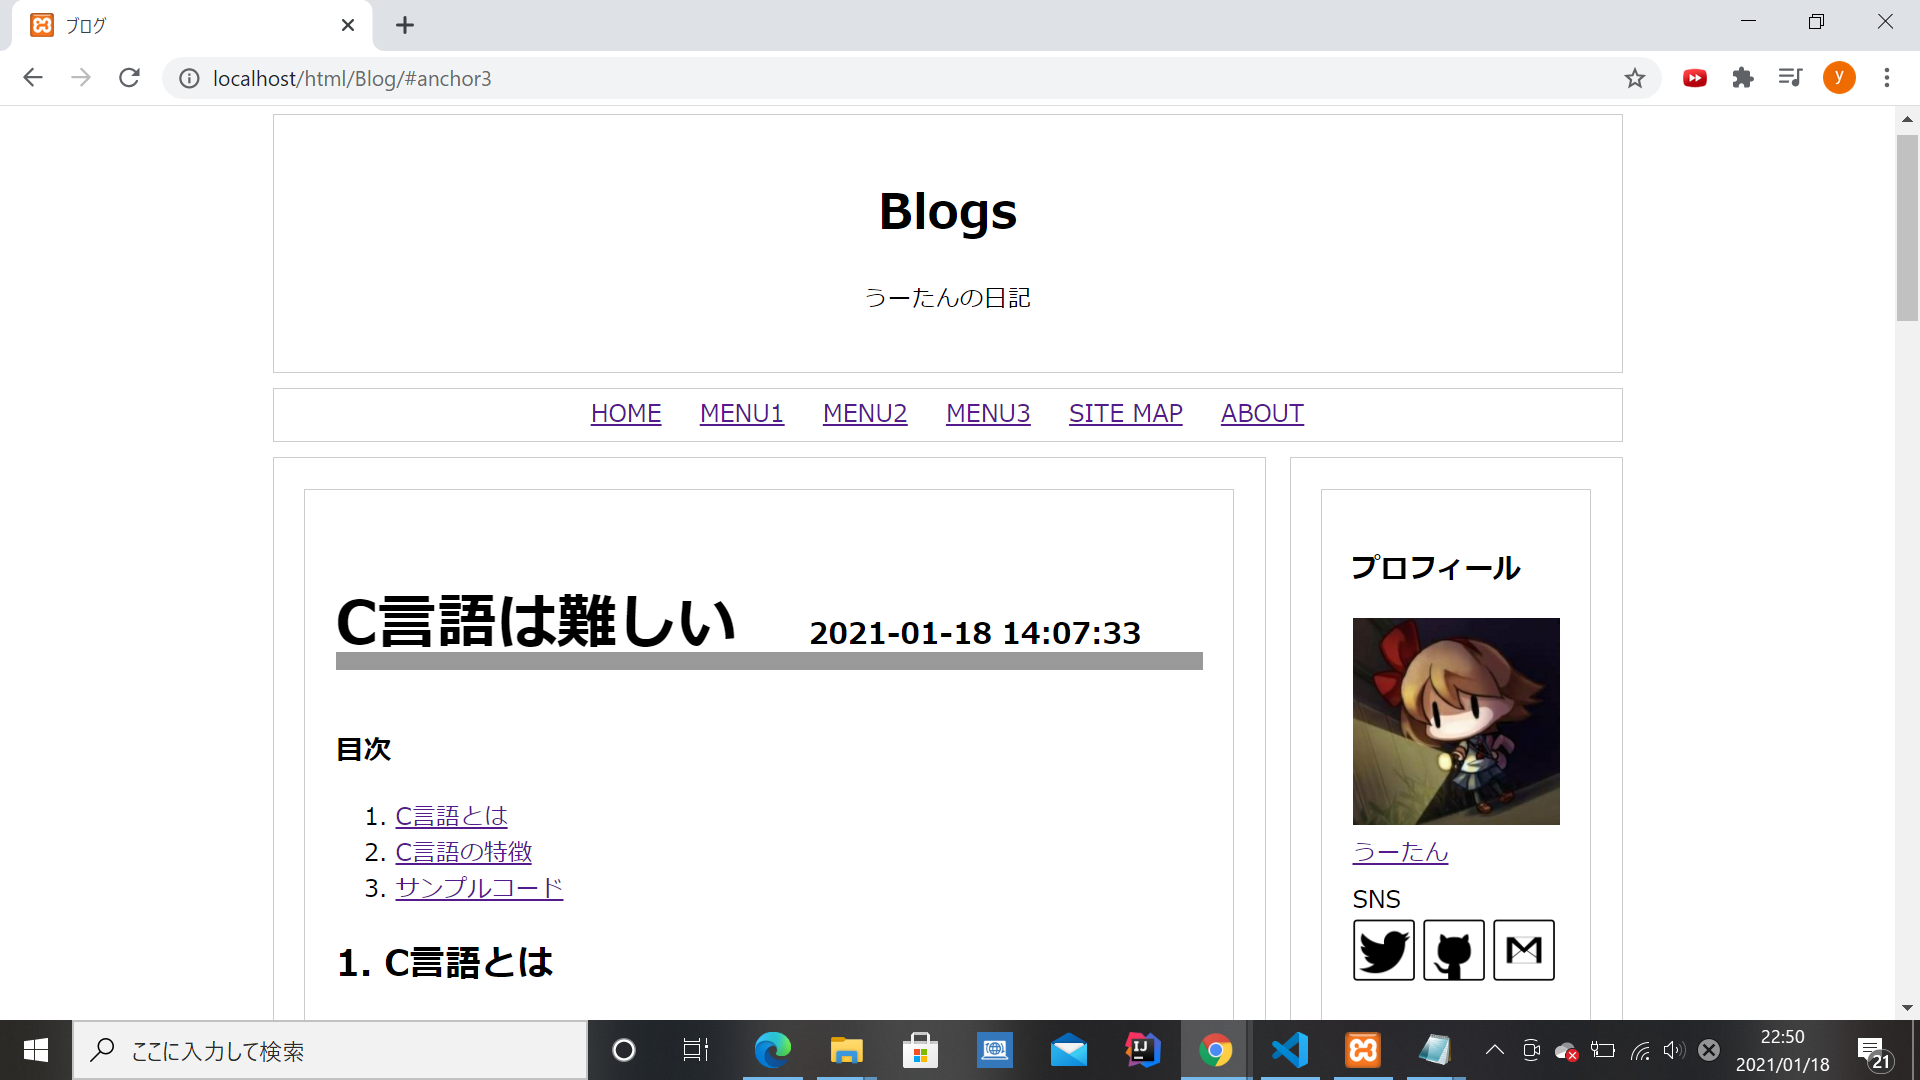
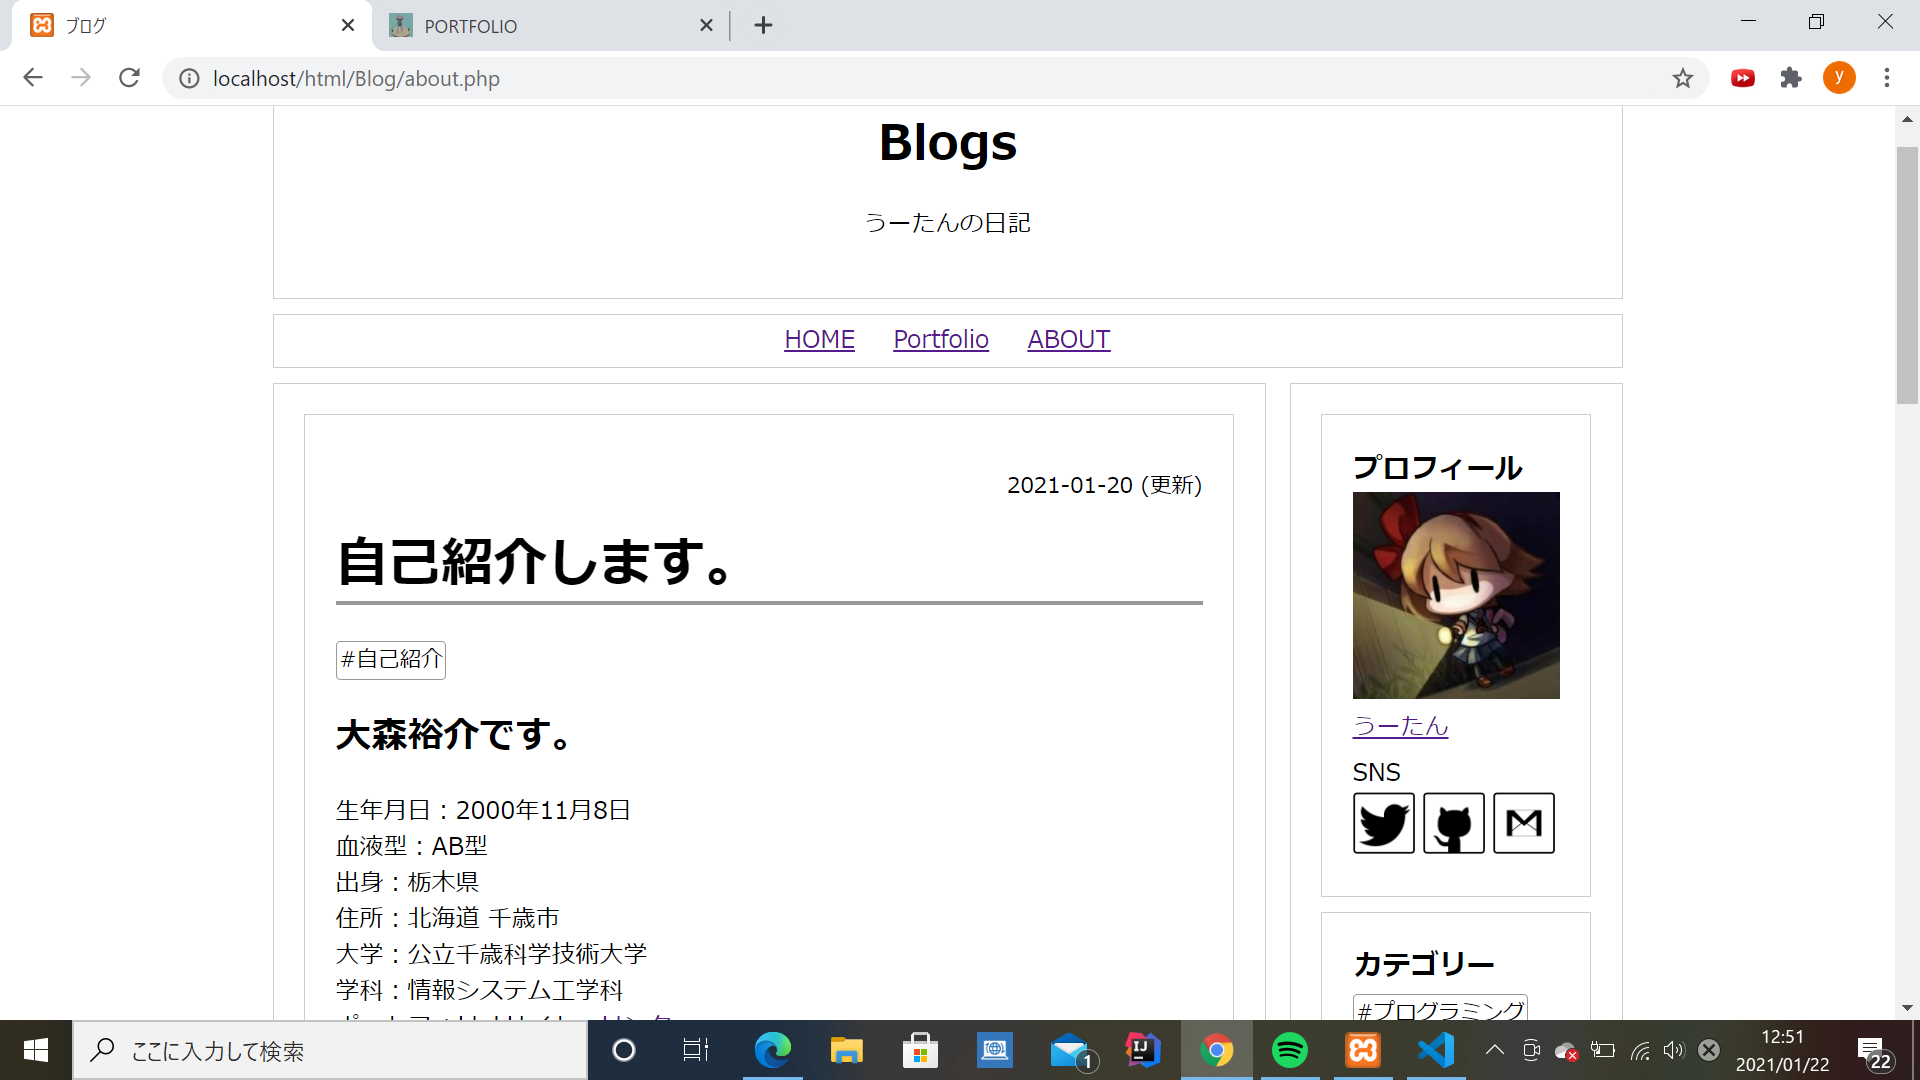
add sideTag

diff --git a/main.css b/main.css
@@ -4,6 +4,11 @@ h1{
     margin: 0 !important;
     padding: 1.3px !important;
 }
+/*aタグの下線を消す*/
+.notext-decoration{
+    text-decoration: none;
+    color: black;
+}
 
 .inline-block {
     display: inline-block;      /* インラインブロック要素にする */
@@ -88,6 +93,11 @@ th     { background:#e0e0e0; }
     border-radius: 3px;
     text-decoration: none;
     color: black;
+}
+/*サイドバーのタグ*/
+.tagSide{
+    margin-bottom: 3px !important;
+    margin-top: 3px !important;
 }
 /*プロフィール画像*/
 .profile{

diff --git a/about.php b/about.php
@@ -65,16 +65,13 @@ require('dbconnect.php');
     <!-- ------------------------------------------------------------------------- -->
 
         <header>
-        <h1>Blogs</h1>
+        <h1><a class="notext-decoration" href="index.php">Blogs</a></h1>
         <p>うーたんの日記</p>
         </header>
         <nav>
             <ul>
                 <li><a href="index.php">HOME</a></li>
-                <li><a href="#">     </a></li>
-                <li><a href="#">     </a></li>
-                <li><a href="#">     </a></li>
-                <li><a href="#">     </a></li>
+                <li><a href="http://utan.php.xdomain.jp/">Portfolio</a></li>
                 <li><a href="about.php">ABOUT</a></li>
             </ul>
         </nav>
@@ -112,7 +109,7 @@ $created = fgets($fp);
 
 <p class="time"><?php print($created); ?></p>
 <h1 class="title"><?php print($title); ?></h1>
-<a href="#" class="tag"><?php print($tag); ?></a>
+<a href="about.php?searchTag=<?php print("自己紹介"); ?>" class="tag"><?php print($tag); ?></a>
 
 <?php //内容
 //print($text);
@@ -158,16 +155,20 @@ fclose($fp);
 
     <section>
     <h1>カテゴリー</h1>
-        <ul>
-            <li><a href="#">カテゴリー1</a></li>
-            <li><a href="#">カテゴリー2</a></li>
-            <li><a href="#">カテゴリー3</a></li>
-            <li><a href="#">カテゴリー4</a></li>
-            <li><a href="#">カテゴリー5</a></li>
-        </ul>
+    <?php
+    $stmt = $db->query('SELECT DISTINCT tag FROM article');
+
+    while($result = $stmt->fetch(PDO::FETCH_ASSOC)):
+    ?>
+
+        <a href="view.php?searchTag=<?php print($result['tag']); ?>" class="tag tagSide"><?php print('#'.$result['tag']); ?></a>
+
+    <?php endwhile; ?>
+
     </section>
     <section>
     <h1>最新記事</h1>
+        <hr>
         <?php 
         $posts_new = $db->prepare('SELECT * FROM article ORDER BY created DESC LIMIT 0,3');
         $posts_new->execute();

diff --git a/view.php b/view.php
@@ -78,16 +78,13 @@ $post = $posts->fetch();
     <!-- ------------------------------------------------------------------------- -->
 
         <header>
-        <h1>Blogs</h1>
+        <h1><a class="notext-decoration" href="index.php">Blogs</a></h1>
         <p>うーたんの日記</p>
         </header>
         <nav>
             <ul>
                 <li><a href="index.php">HOME</a></li>
-                <li><a href="#">     </a></li>
-                <li><a href="#">     </a></li>
-                <li><a href="#">     </a></li>
-                <li><a href="#">     </a></li>
+                <li><a href="http://utan.php.xdomain.jp/">Portfolio</a></li>
                 <li><a href="about.php">ABOUT</a></li>
             </ul>
         </nav>
@@ -175,16 +172,20 @@ print(htmlspecialchars($post['text'], ENT_QUOTES));
 
     <section>
     <h1>カテゴリー</h1>
-        <ul>
-            <li><a href="#">カテゴリー1</a></li>
-            <li><a href="#">カテゴリー2</a></li>
-            <li><a href="#">カテゴリー3</a></li>
-            <li><a href="#">カテゴリー4</a></li>
-            <li><a href="#">カテゴリー5</a></li>
-        </ul>
+    <?php
+    $stmt = $db->query('SELECT DISTINCT tag FROM article');
+
+    while($result = $stmt->fetch(PDO::FETCH_ASSOC)):
+    ?>
+
+        <a href="view.php?searchTag=<?php print($result['tag']); ?>" class="tag tagSide"><?php print('#'.$result['tag']); ?></a>
+
+    <?php endwhile; ?>
+
     </section>
     <section>
     <h1>最新記事</h1>
+        <hr>
         <?php 
         $posts_new = $db->prepare('SELECT * FROM article ORDER BY created DESC LIMIT 0,3');
         $posts_new->execute();

diff --git a/index.php b/index.php
@@ -42,17 +42,14 @@ $posts->execute();
 </head>
 <body>
 <header>
-        <h1>Blogs</h1>
+        <h1><a class="notext-decoration" href="index.php">Blogs</a></h1>
         <p>うーたんの日記</p>
         </header>
 <nav>
 <h1>グローバルナビゲーション</h1>
 <ul>
 <li><a href="index.php">HOME</a></li>
-<li><a href="#">     </a></li>
-<li><a href="#">     </a></li>
-<li><a href="#">     </a></li>
-<li><a href="#">     </a></li>
+<li><a href="http://utan.php.xdomain.jp/">Portfolio</a></li>
 <li><a href="about.php">ABOUT</a></li>
 </ul>
 </nav>
@@ -115,16 +112,20 @@ $posts->execute();
 
 <section>
 <h1>カテゴリー</h1>
-<ul>
-<li><a href="#">カテゴリー1</a></li>
-<li><a href="#">カテゴリー2</a></li>
-<li><a href="#">カテゴリー3</a></li>
-<li><a href="#">カテゴリー4</a></li>
-<li><a href="#">カテゴリー5</a></li>
-</ul>
+<?php
+$stmt = $db->query('SELECT DISTINCT tag FROM article');
+
+while($result = $stmt->fetch(PDO::FETCH_ASSOC)):
+?>
+
+    <a href="view.php?searchTag=<?php print($result['tag']); ?>" class="tag tagSide"><?php print('#'.$result['tag']); ?></a>
+
+<?php endwhile; ?>
+
 </section>
 <section>
 <h1>最新記事</h1>
+<hr>
 <?php 
 $posts_new = $db->prepare('SELECT * FROM article ORDER BY created DESC LIMIT 0,3');
 $posts_new->execute();
